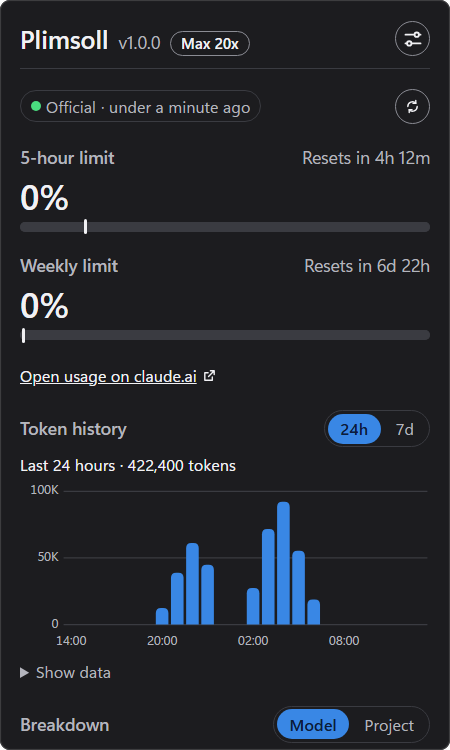
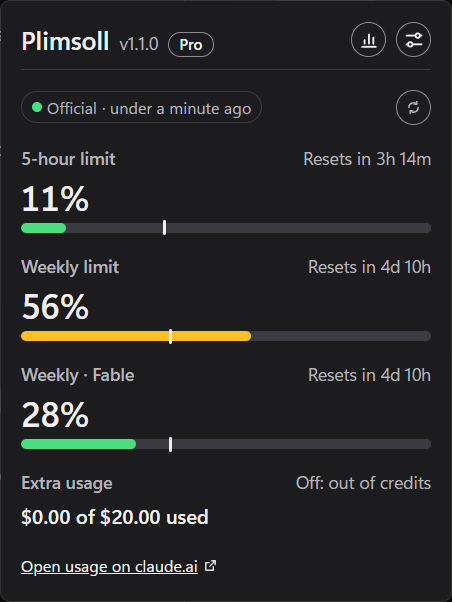
docs(readme): show the popup without the history chart

diff --git a/README.md b/README.md
@@ -3,7 +3,7 @@
 > Your Claude plan limits, in the Windows system tray.
 
 <p align="center">
-  <img src="assets/popup.png" alt="The Plimsoll popup on a Max 20x plan with the five-hour and weekly limits at 0 percent and a 24-hour token history chart." width="360" />
+  <img src="assets/popup.png" alt="The Plimsoll popup on a Pro plan with the five-hour limit at 11 percent, the weekly limit at 56 percent, the weekly Fable limit at 28 percent and extra usage off." width="360" />
 </p>
 
 ## Install
